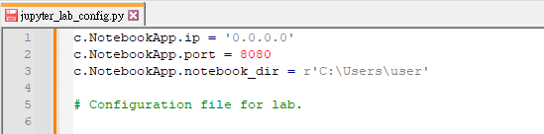
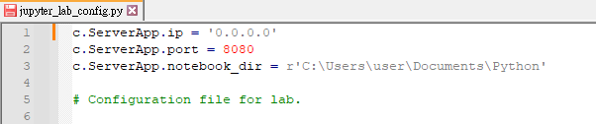
Updated

Changed region(s): [[0.0, 0.0, 1.0, 1.0]]

diff --git a/README.md b/README.md
@@ -42,9 +42,9 @@ The file (`jupyter_lab_config.py`) will be automatically generated in  `C:\Users
 Then open the `.py` file and add the followings:
 
 ```python
-c.NotebookApp.ip = '0.0.0.0'                  # Make Jupyter server to listen on all IPs.
-c.NotebookApp.port = 8080                     # Set the port that server will listen on.
-c.NotebookApp.notebook_dir = r'C:\Users\user' # Set the directory to use for notebooks.
+c.ServerApp.ip = '0.0.0.0'                  # Make Jupyter server to listen on all IPs.
+c.ServerApp.port = 8080                     # Set the port that server will listen on.
+c.ServerApp.notebook_dir = r'C:\Users\user' # Set the directory to use for notebooks.
 ```
 ![jupyter_lab_config](Fig/config.png)
 
